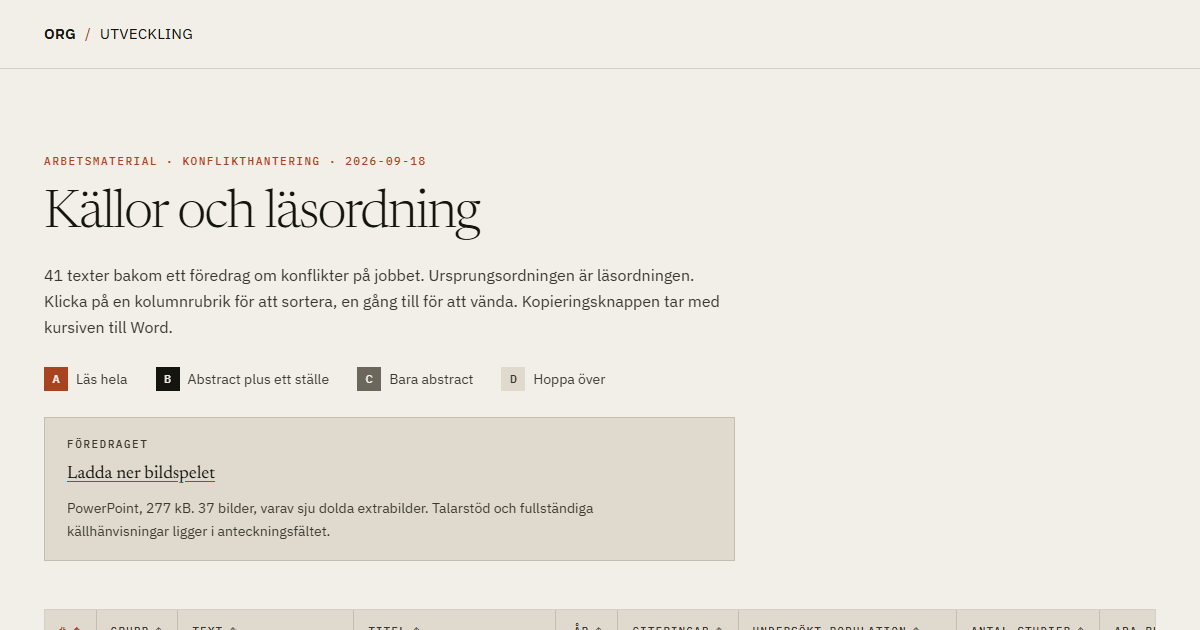
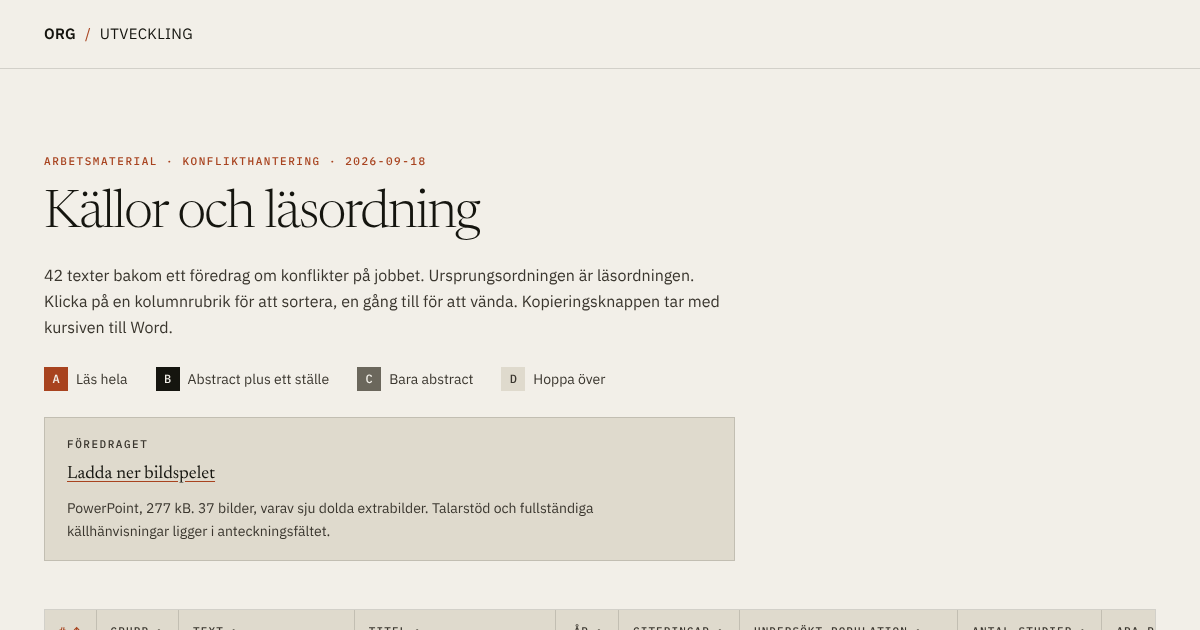
källor: "en enstaka timme" får källa och försiktigare ordalydelse
Ingen studie mäter just en timme. Manuset på bild 22 och 26 bygger nu
på Lacerenza m.fl. (2017): större effekt med övning och utspridda
tillfällen. Källan står i referenslistan på båda bilderna och som rad
40 i sources.json; tabellen har 42 texter, og-bilden följer med.

Claude-Session: https://claude.ai/code/session_012Wu9qtNehbMa9msHaviQqF

diff --git a/index.html b/index.html
@@ -10,7 +10,7 @@
 <!-- Förhandsbild när länken delas (mejl, Teams, LinkedIn); påverkar inte noindex. -->
 <meta property="og:type" content="website">
 <meta property="og:title" content="Konflikt: källor och läsordning">
-<meta property="og:description" content="41 texter bakom ett föredrag om konflikter på jobbet, med läsordning och bildspelet att ladda ner.">
+<meta property="og:description" content="42 texter bakom ett föredrag om konflikter på jobbet, med läsordning och bildspelet att ladda ner.">
 <meta property="og:url" content="https://orgutveckling.se/konflikt/">
 <meta property="og:image" content="https://orgutveckling.se/konflikt/og.png">
 <meta property="og:image:width" content="1200">
@@ -96,7 +96,7 @@
   <div class="page-head">
     <p class="eyebrow">Arbetsmaterial &middot; Konflikthantering &middot; 2026-09-18</p>
     <h1>Källor och läsordning</h1>
-    <p class="ingress">41 texter bakom ett föredrag om konflikter på jobbet. Ursprungsordningen är läsordningen. Klicka på en kolumnrubrik för att sortera, en gång till för att vända. Kopieringsknappen tar med kursiven till Word.</p>
+    <p class="ingress">42 texter bakom ett föredrag om konflikter på jobbet. Ursprungsordningen är läsordningen. Klicka på en kolumnrubrik för att sortera, en gång till för att vända. Kopieringsknappen tar med kursiven till Word.</p>
     <ul class="forklaring"><li><span class="grupp grupp-a">A</span> Läs hela</li><li><span class="grupp grupp-b">B</span> Abstract plus ett ställe</li><li><span class="grupp grupp-c">C</span> Bara abstract</li><li><span class="grupp grupp-d">D</span> Hoppa över</li></ul>
   </div>
 
@@ -150,8 +150,9 @@
 <tr><td class="num" data-sort="37">37</td><td data-sort="C"><span class="grupp grupp-c" title="Bara abstract">C</span></td><td class="text">López-Cabrera m.fl.</td><td class="titel"><a href="https://doi.org/10.3389/fpsyg.2020.00556" rel="noopener">Inside &quot;Pandora&#x27;s box&quot; of solidarity: Conflicts between paid staff and volunteers in the non-profit sector</a></td><td class="num" data-sort="2020">2020</td><td class="num" data-sort="16">16</td><td class="bred">Kvalitativ studie av en stor ideell organisation, anställda och frivilliga (60 deltagare*)</td><td class="halvbred" data-sort=""></td><td class="apa"><span class="ref">López-Cabrera, R., Arenas, A., Medina, F. J., Euwema, M., &amp; Munduate, L. (2020). Inside &quot;Pandora&#x27;s box&quot; of solidarity: Conflicts between paid staff and volunteers in the non-profit sector. <i>Frontiers in Psychology, 11</i>, Artikel 556. <a href="https://doi.org/10.3389/fpsyg.2020.00556">https://doi.org/10.3389/fpsyg.2020.00556</a></span><button type="button" class="kopiera" aria-label="Kopiera APA-referensen" title="Kopiera"><svg viewBox="0 0 16 16" width="14" height="14" aria-hidden="true"><rect x="5" y="5" width="9" height="9" fill="none" stroke="currentColor" stroke-width="1.4"/><path d="M11 5V2H2v9h3" fill="none" stroke="currentColor" stroke-width="1.4"/></svg></button></td><td class="kort"><span class="ref">López-Cabrera m.fl. (2020)</span><button type="button" class="kopiera" aria-label="Kopiera hänvisningen i löptext" title="Kopiera"><svg viewBox="0 0 16 16" width="14" height="14" aria-hidden="true"><rect x="5" y="5" width="9" height="9" fill="none" stroke="currentColor" stroke-width="1.4"/><path d="M11 5V2H2v9h3" fill="none" stroke="currentColor" stroke-width="1.4"/></svg></button></td><td class="kort"><span class="ref">(López-Cabrera m.fl., 2020)</span><button type="button" class="kopiera" aria-label="Kopiera hänvisningen inom parentes" title="Kopiera"><svg viewBox="0 0 16 16" width="14" height="14" aria-hidden="true"><rect x="5" y="5" width="9" height="9" fill="none" stroke="currentColor" stroke-width="1.4"/><path d="M11 5V2H2v9h3" fill="none" stroke="currentColor" stroke-width="1.4"/></svg></button></td></tr>
 <tr><td class="num" data-sort="38">38</td><td data-sort="C"><span class="grupp grupp-c" title="Bara abstract">C</span></td><td class="text">Hinds &amp; Mortensen</td><td class="titel"><a href="https://doi.org/10.1287/orsc.1050.0122" rel="noopener">Understanding conflict in geographically distributed teams: The moderating effects of shared identity, shared context, and spontaneous communication</a></td><td class="num" data-sort="2005">2005</td><td class="num" data-sort="804">804</td><td class="bred">43 team (22 samlade, 21 utspridda) i ett multinationellt företag</td><td class="halvbred" data-sort=""></td><td class="apa"><span class="ref">Hinds, P. J., &amp; Mortensen, M. (2005). Understanding conflict in geographically distributed teams: The moderating effects of shared identity, shared context, and spontaneous communication. <i>Organization Science, 16</i>(3), 290–307. <a href="https://doi.org/10.1287/orsc.1050.0122">https://doi.org/10.1287/orsc.1050.0122</a></span><button type="button" class="kopiera" aria-label="Kopiera APA-referensen" title="Kopiera"><svg viewBox="0 0 16 16" width="14" height="14" aria-hidden="true"><rect x="5" y="5" width="9" height="9" fill="none" stroke="currentColor" stroke-width="1.4"/><path d="M11 5V2H2v9h3" fill="none" stroke="currentColor" stroke-width="1.4"/></svg></button></td><td class="kort"><span class="ref">Hinds och Mortensen (2005)</span><button type="button" class="kopiera" aria-label="Kopiera hänvisningen i löptext" title="Kopiera"><svg viewBox="0 0 16 16" width="14" height="14" aria-hidden="true"><rect x="5" y="5" width="9" height="9" fill="none" stroke="currentColor" stroke-width="1.4"/><path d="M11 5V2H2v9h3" fill="none" stroke="currentColor" stroke-width="1.4"/></svg></button></td><td class="kort"><span class="ref">(Hinds &amp; Mortensen, 2005)</span><button type="button" class="kopiera" aria-label="Kopiera hänvisningen inom parentes" title="Kopiera"><svg viewBox="0 0 16 16" width="14" height="14" aria-hidden="true"><rect x="5" y="5" width="9" height="9" fill="none" stroke="currentColor" stroke-width="1.4"/><path d="M11 5V2H2v9h3" fill="none" stroke="currentColor" stroke-width="1.4"/></svg></button></td></tr>
 <tr><td class="num" data-sort="39">39</td><td data-sort="C"><span class="grupp grupp-c" title="Bara abstract">C</span></td><td class="text">Juncadella</td><td class="titel"><a href="https://nvc-global.net/wp-content/uploads/2019/02/Carme_Mampel_Juncadella.pdf" rel="noopener">What is the impact of the application of the Nonviolent Communication model on the development of empathy?</a></td><td class="num" data-sort="2013">2013</td><td class="num" data-sort=""></td><td class="bred">Masteruppsats, systematisk översikt av NVC-studier (2 634 träffar genomsökta)</td><td class="halvbred" data-sort="14">14 (13 försök)*</td><td class="apa"><span class="ref">Juncadella, C. M. (2013). <i>What is the impact of the application of the Nonviolent Communication model on the development of empathy?</i> [Masteruppsats, University of Sheffield]. <a href="https://nvc-global.net/wp-content/uploads/2019/02/Carme_Mampel_Juncadella.pdf">https://nvc-global.net/wp-content/uploads/2019/02/Carme_Mampel_Juncadella.pdf</a></span><button type="button" class="kopiera" aria-label="Kopiera APA-referensen" title="Kopiera"><svg viewBox="0 0 16 16" width="14" height="14" aria-hidden="true"><rect x="5" y="5" width="9" height="9" fill="none" stroke="currentColor" stroke-width="1.4"/><path d="M11 5V2H2v9h3" fill="none" stroke="currentColor" stroke-width="1.4"/></svg></button></td><td class="kort"><span class="ref">Juncadella (2013)</span><button type="button" class="kopiera" aria-label="Kopiera hänvisningen i löptext" title="Kopiera"><svg viewBox="0 0 16 16" width="14" height="14" aria-hidden="true"><rect x="5" y="5" width="9" height="9" fill="none" stroke="currentColor" stroke-width="1.4"/><path d="M11 5V2H2v9h3" fill="none" stroke="currentColor" stroke-width="1.4"/></svg></button></td><td class="kort"><span class="ref">(Juncadella, 2013)</span><button type="button" class="kopiera" aria-label="Kopiera hänvisningen inom parentes" title="Kopiera"><svg viewBox="0 0 16 16" width="14" height="14" aria-hidden="true"><rect x="5" y="5" width="9" height="9" fill="none" stroke="currentColor" stroke-width="1.4"/><path d="M11 5V2H2v9h3" fill="none" stroke="currentColor" stroke-width="1.4"/></svg></button></td></tr>
-<tr><td class="num" data-sort="40">40</td><td data-sort="D"><span class="grupp grupp-d" title="Hoppa över">D</span></td><td class="text">Glasl</td><td class="titel"><a href="https://doi.org/10.1007/978-94-017-1132-6_6" rel="noopener">The process of conflict escalation and roles of third parties</a></td><td class="num" data-sort="1982">1982</td><td class="num" data-sort="110">110</td><td class="bred">Bokkapitel, modellbeskrivning</td><td class="halvbred" data-sort=""></td><td class="apa"><span class="ref">Glasl, F. (1982). The process of conflict escalation and roles of third parties. I G. B. J. Bomers &amp; R. B. Peterson (Red.), <i>Conflict management and industrial relations</i> (s. 119–140). Kluwer-Nijhoff. <a href="https://doi.org/10.1007/978-94-017-1132-6_6">https://doi.org/10.1007/978-94-017-1132-6_6</a></span><button type="button" class="kopiera" aria-label="Kopiera APA-referensen" title="Kopiera"><svg viewBox="0 0 16 16" width="14" height="14" aria-hidden="true"><rect x="5" y="5" width="9" height="9" fill="none" stroke="currentColor" stroke-width="1.4"/><path d="M11 5V2H2v9h3" fill="none" stroke="currentColor" stroke-width="1.4"/></svg></button></td><td class="kort"><span class="ref">Glasl (1982)</span><button type="button" class="kopiera" aria-label="Kopiera hänvisningen i löptext" title="Kopiera"><svg viewBox="0 0 16 16" width="14" height="14" aria-hidden="true"><rect x="5" y="5" width="9" height="9" fill="none" stroke="currentColor" stroke-width="1.4"/><path d="M11 5V2H2v9h3" fill="none" stroke="currentColor" stroke-width="1.4"/></svg></button></td><td class="kort"><span class="ref">(Glasl, 1982)</span><button type="button" class="kopiera" aria-label="Kopiera hänvisningen inom parentes" title="Kopiera"><svg viewBox="0 0 16 16" width="14" height="14" aria-hidden="true"><rect x="5" y="5" width="9" height="9" fill="none" stroke="currentColor" stroke-width="1.4"/><path d="M11 5V2H2v9h3" fill="none" stroke="currentColor" stroke-width="1.4"/></svg></button></td></tr>
-<tr><td class="num" data-sort="41">41</td><td data-sort="D"><span class="grupp grupp-d" title="Hoppa över">D</span></td><td class="text">Rahim</td><td class="titel"><a href="https://doi.org/10.4324/9781003285861" rel="noopener">Managing conflict in organizations</a></td><td class="num" data-sort="2023">2023</td><td class="num" data-sort="86">86</td><td class="bred">Lärobok, 5:e upplagan</td><td class="halvbred" data-sort=""></td><td class="apa"><span class="ref">Rahim, M. A. (2023). <i>Managing conflict in organizations</i> (5:e uppl.). Routledge. <a href="https://doi.org/10.4324/9781003285861">https://doi.org/10.4324/9781003285861</a></span><button type="button" class="kopiera" aria-label="Kopiera APA-referensen" title="Kopiera"><svg viewBox="0 0 16 16" width="14" height="14" aria-hidden="true"><rect x="5" y="5" width="9" height="9" fill="none" stroke="currentColor" stroke-width="1.4"/><path d="M11 5V2H2v9h3" fill="none" stroke="currentColor" stroke-width="1.4"/></svg></button></td><td class="kort"><span class="ref">Rahim (2023)</span><button type="button" class="kopiera" aria-label="Kopiera hänvisningen i löptext" title="Kopiera"><svg viewBox="0 0 16 16" width="14" height="14" aria-hidden="true"><rect x="5" y="5" width="9" height="9" fill="none" stroke="currentColor" stroke-width="1.4"/><path d="M11 5V2H2v9h3" fill="none" stroke="currentColor" stroke-width="1.4"/></svg></button></td><td class="kort"><span class="ref">(Rahim, 2023)</span><button type="button" class="kopiera" aria-label="Kopiera hänvisningen inom parentes" title="Kopiera"><svg viewBox="0 0 16 16" width="14" height="14" aria-hidden="true"><rect x="5" y="5" width="9" height="9" fill="none" stroke="currentColor" stroke-width="1.4"/><path d="M11 5V2H2v9h3" fill="none" stroke="currentColor" stroke-width="1.4"/></svg></button></td></tr>
+<tr><td class="num" data-sort="40">40</td><td data-sort="C"><span class="grupp grupp-c" title="Bara abstract">C</span></td><td class="text">Lacerenza m.fl.</td><td class="titel"><a href="https://doi.org/10.1037/apl0000241" rel="noopener">Leadership training design, delivery, and implementation: A meta-analysis</a></td><td class="num" data-sort="2017">2017</td><td class="num" data-sort="486">486</td><td class="bred">Metaanalys av ledarskapsutbildning, bara data från anställda</td><td class="halvbred" data-sort="335">335 urval</td><td class="apa"><span class="ref">Lacerenza, C. N., Reyes, D. L., Marlow, S. L., Joseph, D. L., &amp; Salas, E. (2017). Leadership training design, delivery, and implementation: A meta-analysis. <i>Journal of Applied Psychology, 102</i>(12), 1686–1718. <a href="https://doi.org/10.1037/apl0000241">https://doi.org/10.1037/apl0000241</a></span><button type="button" class="kopiera" aria-label="Kopiera APA-referensen" title="Kopiera"><svg viewBox="0 0 16 16" width="14" height="14" aria-hidden="true"><rect x="5" y="5" width="9" height="9" fill="none" stroke="currentColor" stroke-width="1.4"/><path d="M11 5V2H2v9h3" fill="none" stroke="currentColor" stroke-width="1.4"/></svg></button></td><td class="kort"><span class="ref">Lacerenza m.fl. (2017)</span><button type="button" class="kopiera" aria-label="Kopiera hänvisningen i löptext" title="Kopiera"><svg viewBox="0 0 16 16" width="14" height="14" aria-hidden="true"><rect x="5" y="5" width="9" height="9" fill="none" stroke="currentColor" stroke-width="1.4"/><path d="M11 5V2H2v9h3" fill="none" stroke="currentColor" stroke-width="1.4"/></svg></button></td><td class="kort"><span class="ref">(Lacerenza m.fl., 2017)</span><button type="button" class="kopiera" aria-label="Kopiera hänvisningen inom parentes" title="Kopiera"><svg viewBox="0 0 16 16" width="14" height="14" aria-hidden="true"><rect x="5" y="5" width="9" height="9" fill="none" stroke="currentColor" stroke-width="1.4"/><path d="M11 5V2H2v9h3" fill="none" stroke="currentColor" stroke-width="1.4"/></svg></button></td></tr>
+<tr><td class="num" data-sort="41">41</td><td data-sort="D"><span class="grupp grupp-d" title="Hoppa över">D</span></td><td class="text">Glasl</td><td class="titel"><a href="https://doi.org/10.1007/978-94-017-1132-6_6" rel="noopener">The process of conflict escalation and roles of third parties</a></td><td class="num" data-sort="1982">1982</td><td class="num" data-sort="110">110</td><td class="bred">Bokkapitel, modellbeskrivning</td><td class="halvbred" data-sort=""></td><td class="apa"><span class="ref">Glasl, F. (1982). The process of conflict escalation and roles of third parties. I G. B. J. Bomers &amp; R. B. Peterson (Red.), <i>Conflict management and industrial relations</i> (s. 119–140). Kluwer-Nijhoff. <a href="https://doi.org/10.1007/978-94-017-1132-6_6">https://doi.org/10.1007/978-94-017-1132-6_6</a></span><button type="button" class="kopiera" aria-label="Kopiera APA-referensen" title="Kopiera"><svg viewBox="0 0 16 16" width="14" height="14" aria-hidden="true"><rect x="5" y="5" width="9" height="9" fill="none" stroke="currentColor" stroke-width="1.4"/><path d="M11 5V2H2v9h3" fill="none" stroke="currentColor" stroke-width="1.4"/></svg></button></td><td class="kort"><span class="ref">Glasl (1982)</span><button type="button" class="kopiera" aria-label="Kopiera hänvisningen i löptext" title="Kopiera"><svg viewBox="0 0 16 16" width="14" height="14" aria-hidden="true"><rect x="5" y="5" width="9" height="9" fill="none" stroke="currentColor" stroke-width="1.4"/><path d="M11 5V2H2v9h3" fill="none" stroke="currentColor" stroke-width="1.4"/></svg></button></td><td class="kort"><span class="ref">(Glasl, 1982)</span><button type="button" class="kopiera" aria-label="Kopiera hänvisningen inom parentes" title="Kopiera"><svg viewBox="0 0 16 16" width="14" height="14" aria-hidden="true"><rect x="5" y="5" width="9" height="9" fill="none" stroke="currentColor" stroke-width="1.4"/><path d="M11 5V2H2v9h3" fill="none" stroke="currentColor" stroke-width="1.4"/></svg></button></td></tr>
+<tr><td class="num" data-sort="42">42</td><td data-sort="D"><span class="grupp grupp-d" title="Hoppa över">D</span></td><td class="text">Rahim</td><td class="titel"><a href="https://doi.org/10.4324/9781003285861" rel="noopener">Managing conflict in organizations</a></td><td class="num" data-sort="2023">2023</td><td class="num" data-sort="86">86</td><td class="bred">Lärobok, 5:e upplagan</td><td class="halvbred" data-sort=""></td><td class="apa"><span class="ref">Rahim, M. A. (2023). <i>Managing conflict in organizations</i> (5:e uppl.). Routledge. <a href="https://doi.org/10.4324/9781003285861">https://doi.org/10.4324/9781003285861</a></span><button type="button" class="kopiera" aria-label="Kopiera APA-referensen" title="Kopiera"><svg viewBox="0 0 16 16" width="14" height="14" aria-hidden="true"><rect x="5" y="5" width="9" height="9" fill="none" stroke="currentColor" stroke-width="1.4"/><path d="M11 5V2H2v9h3" fill="none" stroke="currentColor" stroke-width="1.4"/></svg></button></td><td class="kort"><span class="ref">Rahim (2023)</span><button type="button" class="kopiera" aria-label="Kopiera hänvisningen i löptext" title="Kopiera"><svg viewBox="0 0 16 16" width="14" height="14" aria-hidden="true"><rect x="5" y="5" width="9" height="9" fill="none" stroke="currentColor" stroke-width="1.4"/><path d="M11 5V2H2v9h3" fill="none" stroke="currentColor" stroke-width="1.4"/></svg></button></td><td class="kort"><span class="ref">(Rahim, 2023)</span><button type="button" class="kopiera" aria-label="Kopiera hänvisningen inom parentes" title="Kopiera"><svg viewBox="0 0 16 16" width="14" height="14" aria-hidden="true"><rect x="5" y="5" width="9" height="9" fill="none" stroke="currentColor" stroke-width="1.4"/><path d="M11 5V2H2v9h3" fill="none" stroke="currentColor" stroke-width="1.4"/></svg></button></td></tr>
       </tbody>
     </table>
   </div>

diff --git a/template.html b/template.html
@@ -10,7 +10,7 @@
 <!-- Förhandsbild när länken delas (mejl, Teams, LinkedIn); påverkar inte noindex. -->
 <meta property="og:type" content="website">
 <meta property="og:title" content="Konflikt: källor och läsordning">
-<meta property="og:description" content="41 texter bakom ett föredrag om konflikter på jobbet, med läsordning och bildspelet att ladda ner.">
+<meta property="og:description" content="42 texter bakom ett föredrag om konflikter på jobbet, med läsordning och bildspelet att ladda ner.">
 <meta property="og:url" content="https://orgutveckling.se/konflikt/">
 <meta property="og:image" content="https://orgutveckling.se/konflikt/og.png">
 <meta property="og:image:width" content="1200">

diff --git a/BACKLOG.md b/BACKLOG.md
@@ -8,7 +8,7 @@
 ## Källkontroll före 2026-09-21
 
 - [x] `[P1]` DeChurch m.fl. (2013): de 13 % står i abstractet, de 2 % är bara belagda via O'Neill & McLarnon (2018). Hämta artikeln via universitetsbiblioteket och kontrollera stället. Filen med det namnet i arbetsmappen är i själva verket Yuan m.fl. (2026). **Kontrollerat 2026-09-18 kl. 16:10:** rätt artikel ligger nu i `artiklar\` (namnkontrollerad). Stället står på s. 564: hanteringen förklarar 15 % av prestationen, konflikttyp ytterligare 2 %, men 19 % av trivseln i gruppen. Kvar för Patrik: föra in i v3 och byta "refererad i" mot direkt hänvisning. **Kontrollerat i fulltext 2026-11-04** (författarnas egen kopia, https://atlas.northwestern.edu/wp-content/uploads/2017/03/DeChurch-et-al.-2013.pdf, tidskriftens sidnummer i sidhuvudet). Båda siffrorna stämmer med bilden. S. 563, tabell 2: "collaborating, avoiding, and competing conflict processes account for an incremental 13% (p < .01) of the variance in both team performance and team affective outcomes beyond that which is accounted for by conflict states". S. 564, tabell 3: "relationship and task conflict account for an incremental 2% (p < .01) of the variance in team performance and 19% (p < .01) of the variance in team affective outcomes beyond that which is accounted for by conflict processes". De 15 % i anteckningen ovan är processernas R² ensamma (R² = .15), inte ett tillskott. Med öppenhet som enda processmått blir tillskotten 8 % och 0,1 % (ej signifikant). Infört i `konfliktkompetens.pptx`: källraden på bild 15 hänvisar direkt till DeChurch m.fl. (2013), manuset anger sidorna och förbehållen, och referensen till O'Neill och McLarnon på den bilden är utbytt mot DeChurch. Arbetsmappens v3 är inte rörd. Tabell 3 ger ΔR² = .015 för prestationen, alltså 1,5 % avrundat till 2 %, och .187 för trivseln. Notera: diskussionen (s. 566) byter plats på 15 % och 19 % för trivseln jämfört med resultatavsnittet och tabell 3, en inkonsekvens i artikeln själv. Manuset följer tabellen.
-- [ ] `[P1]` Påståendet "en enstaka timme ger liten effekt utan övning" (talarmanus bild 22 och 26) saknar källa. Hitta den eller stryk. **Förslag 2026-09-18:** ingen exakt källa finns. McEwan m.fl. (2017, https://doi.org/10.1371/journal.pone.0169604, tabell 3, fulltext läst) bär en försiktigare formulering: ren föreläsning gav ingen säkerställd effekt på samarbetet (d = 0,19, 4 insatser), workshop 0,50, simulering 0,78, men skillnaden mellan metoderna var inte säkerställd (p = 0,10). Taylor m.fl. (2009, https://doi.org/10.1037/a0013006, abstract): överföringen var störst när utbildningen innehöll övning.
+- [x] `[P1]` Påståendet "en enstaka timme ger liten effekt utan övning" (talarmanus bild 22 och 26) saknar källa. Hitta den eller stryk. **Förslag 2026-09-18:** ingen exakt källa finns. McEwan m.fl. (2017, https://doi.org/10.1371/journal.pone.0169604, tabell 3, fulltext läst) bär en försiktigare formulering: ren föreläsning gav ingen säkerställd effekt på samarbetet (d = 0,19, 4 insatser), workshop 0,50, simulering 0,78, men skillnaden mellan metoderna var inte säkerställd (p = 0,10). Taylor m.fl. (2009, https://doi.org/10.1037/a0013006, abstract): överföringen var störst när utbildningen innehöll övning. **Avgjort 2026-11-04: omformulerat med källa.** Ingen studie som mäter just en timme hittades. Bärande källa i stället: Lacerenza m.fl. (2017, https://doi.org/10.1037/apl0000241, abstract läst på UCF:s arkivsida stars.library.ucf.edu/scopus2015/5360), metaanalys av ledarskapsutbildning med 335 urval: "Moderator analyses support the use of needs analysis, feedback, multiple delivery methods (especially practice), spaced training sessions, a location that is on-site, and face-to-face delivery that is not self-administered." Manuset på bild 22 säger nu att effekten blev större med övning och utspridda tillfällen, och uttryckligen att ingen studie i underlaget mäter just en timme. Bild 26 säger "utbildning ger mer när den innehåller övning och sprids över flera tillfällen (Lacerenza m.fl., 2017)". Referensen med länk står under båda bilderna och som rad 40 i `sources.json` (sist i grupp C) (grupp C, Crossref-citeringar 486 hämtade 2026-11-04), så tabellen har nu 42 texter. `og.png` och `og:description` följer med. McEwan m.fl. och Taylor m.fl. ovan bär samma riktning men är inte införda.
 - [ ] `[P1]` Talarmanus bild 13 nämner bara förbehållet hos Scheppa-Lahyani & Zapf (2023). Deras abstract säger också att studierna ger stöd åt Glasls modell. Förslag på tillägg lämnat, väntar på ja eller nej.
 - [x] `[P2]` Juncadella (2013): kontrollera att det är en översikt med 14 studier, så som manuset på bild 21 säger. **Kontrollerat 2026-10-06 i fulltext** (PDF:en på postens länk, författarnamnet står på s. 1 och 2): abstractet (s. 5 i filen) kallar arbetet "systematic review" och säger "From 2634 citations, fourteen studies were identified, citing thirteen experiments". Samma uppgift i metodkapitlet (s. 28 i filen). Manuset stämmer. Infört i `sources.json` som `14 (13 försök)*`.
 - [x] `[P2]` Jordans arbetsblad: källbild 28 säger 2006, läslistan och manuset 2014. Avgör och rätta den som har fel. **Avgjort 2026-10-06: 2014.** Instruktionens egen sidfot (s. 1 i PDF:en på postens länk, läst som renderad bild) lyder "Thomas Jordan, [...], 2014". I den publicerade filen stod 2006 bara i källraden på bild 24 (källbilden, manuset och `sources.json` hade redan 2014). Rättat i `konfliktkompetens.pptx` här i repot: en zip-del ändrad, övriga byte för byte orörda. Arbetsmappens v3 är inte rörd, se punkten under Presentationen.

diff --git a/CONTEXT.md b/CONTEXT.md
@@ -2,7 +2,7 @@
 
 ## Vad det här är
 
-En olänkad arbetssida på https://orgutveckling.se/konflikt/ : en sorterbar tabell över de 41 källorna bakom ett föredrag om konflikter på jobbet (2026-09-21). Per källa: läsnivå, kortnamn, klickbar titel (länkar till DOI eller webbadress), år, citeringar, undersökt population, antal studier (för översikter och metaanalyser), APA 7-referens, hänvisning i löptext och inom parentes. Någon egen länkkolumn finns inte: länken sitter i titeln och sist i APA-referensen. Referenserna har en kopieringsknapp som tar med kursiven.
+En olänkad arbetssida på https://orgutveckling.se/konflikt/ : en sorterbar tabell över de 42 källorna bakom ett föredrag om konflikter på jobbet (2026-09-21). Per källa: läsnivå, kortnamn, klickbar titel (länkar till DOI eller webbadress), år, citeringar, undersökt population, antal studier (för översikter och metaanalyser), APA 7-referens, hänvisning i löptext och inom parentes. Någon egen länkkolumn finns inte: länken sitter i titeln och sist i APA-referensen. Referenserna har en kopieringsknapp som tar med kursiven.
 
 Sidan har också en nedladdningsruta överst: deltagarna hämtar bildspelet därifrån.
 
